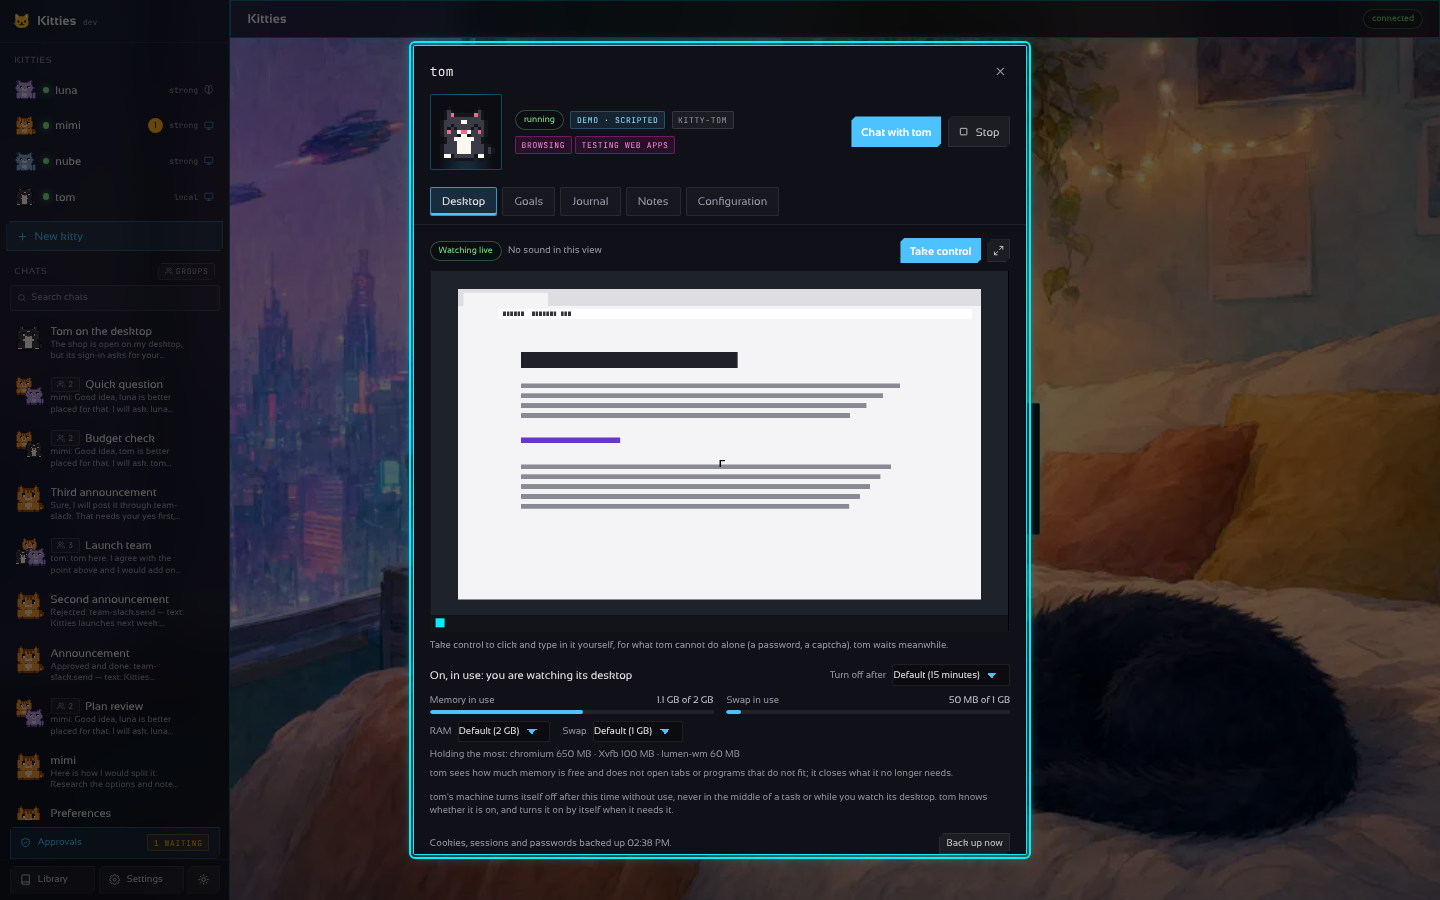
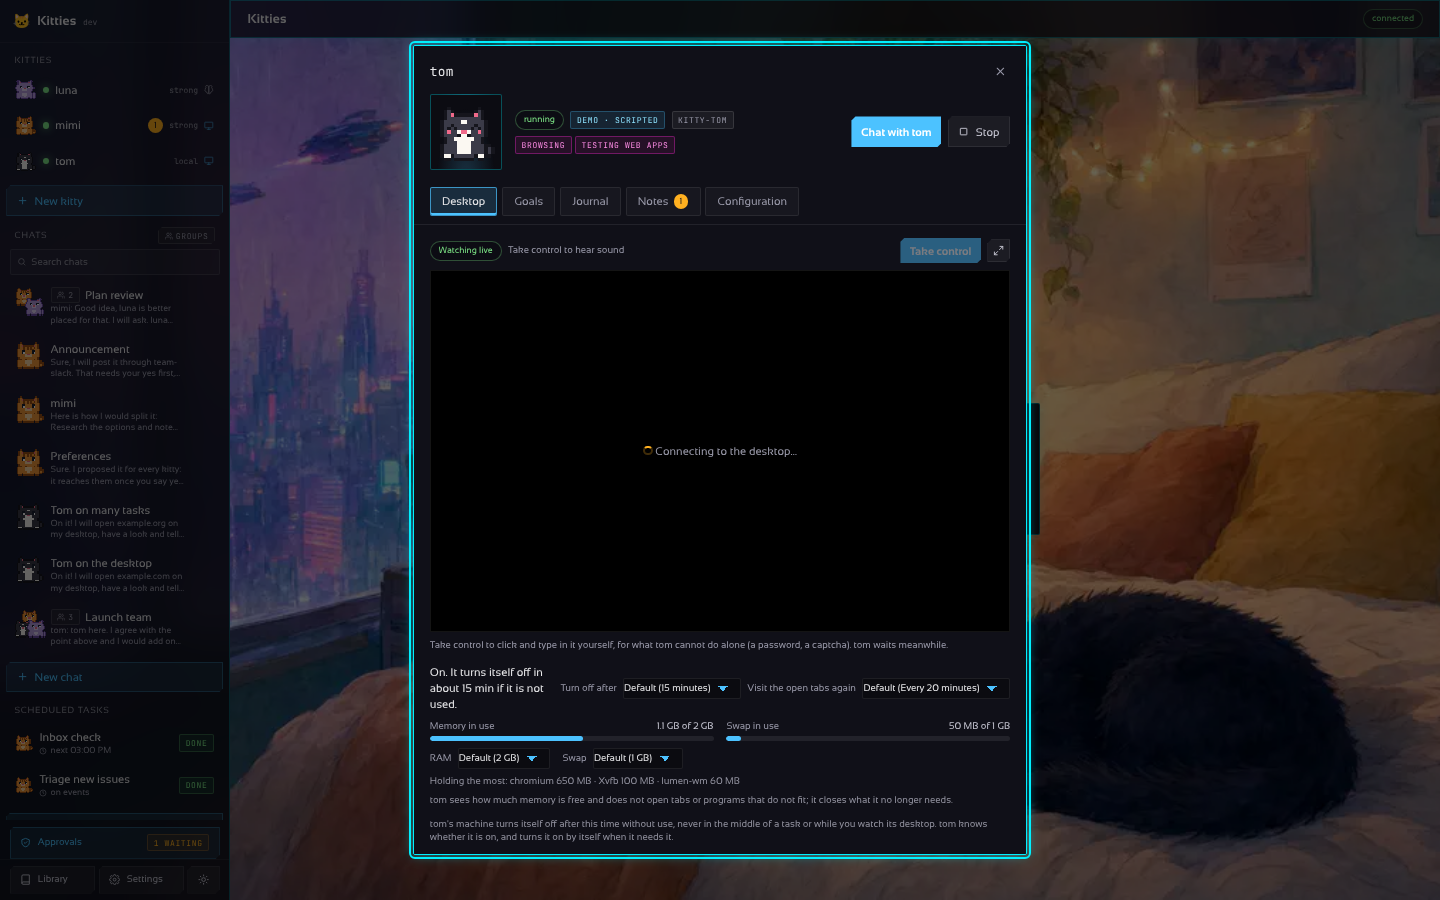
feat(machines): intervalo de refresco del navegador por kitty
- kitty.browser_refresh_minutes y PATCH /v1/kitties/{ref}
  {browser_refresh_minutes | browser_refresh_default}; power muestra
  browser_refresh_minutes/custom.
- El cambio llega al instante a su escritorio; el default de Ajustes ›
  Máquinas ya no pisa a los kitties con valor propio.
- Selector en la ventana del kitty (Escritorio), e2e, tests Go, capturas
  (docs y landing) y docs.

Claude-Session: https://claude.ai/code/session_017Z7sUbKAKG6YcFUj1UzYkm

diff --git a/desktop/frontend/src/MachinePower.tsx b/desktop/frontend/src/MachinePower.tsx
@@ -2,7 +2,7 @@ import { useEffect, useState } from "preact/hooks";
 import type { Kitty, Memory, Power } from "./api";
 import { api, errText } from "./api";
 import { t } from "./i18n";
-import MachineMemory from "./MachineMemory";
+import MachineMemory, { REFRESH_CHOICES, withValue } from "./MachineMemory";
 
 // THE KITTY'S MACHINE.
 //
@@ -96,19 +96,26 @@ export default function MachinePower({
   if (!power) {
     return null;
   }
-  const choose = async (value: string) => {
+  const patch = async (u: Parameters<typeof api.editKitty>[1]) => {
     setErr("");
     try {
-      await api.editKitty(
-        kitty.id,
-        value === "default" ? { auto_off_default: true } : { auto_off_minutes: Number(value) },
-      );
+      await api.editKitty(kitty.id, u);
       await load();
       onChanged();
     } catch (e) {
       setErr(errText(e));
     }
   };
+  const choose = (value: string) =>
+    patch(value === "default" ? { auto_off_default: true } : { auto_off_minutes: Number(value) });
+  const chooseRefresh = (value: string) =>
+    patch(
+      value === "default"
+        ? { browser_refresh_default: true }
+        : { browser_refresh_minutes: Number(value) },
+    );
+  const refresh = power.browser_refresh_minutes;
+  const refreshText = (n: number) => (n === 0 ? t("Never") : t("Every {n} minutes", { n }));
   const choices = IDLE_CHOICES.includes(power.auto_off_minutes)
     ? IDLE_CHOICES
     : [...IDLE_CHOICES, power.auto_off_minutes].sort((a, b) => (a || 1e9) - (b || 1e9));
@@ -138,6 +145,28 @@ export default function MachinePower({
             ))}
           </select>
         </label>
+        {refresh !== undefined && (
+          <label class="flex items-center gap-2 text-xs text-[var(--t3)]">
+            {t("Visit the open tabs again")}
+            <select
+              class="field !py-1 !text-xs"
+              value={power.browser_refresh_custom ? String(refresh) : "default"}
+              onChange={(e) => void chooseRefresh((e.target as HTMLSelectElement).value)}
+              data-testid="browser-refresh"
+            >
+              <option value="default">
+                {power.browser_refresh_custom
+                  ? t("Default")
+                  : t("Default ({time})", { time: refreshText(refresh) })}
+              </option>
+              {withValue(REFRESH_CHOICES, refresh).map((n) => (
+                <option key={n} value={String(n)}>
+                  {refreshText(n)}
+                </option>
+              ))}
+            </select>
+          </label>
+        )}
       </div>
       <MachineMemory
         kitty={kitty}

diff --git a/desktop/frontend/e2e/screens.spec.ts b/desktop/frontend/e2e/screens.spec.ts
@@ -4111,6 +4111,18 @@ test("a kitty's machine is turned on and off and has its own idle time", async (
   await expect.poll(async () => (await idle()).auto_off_minutes).toBe(30);
   await power.getByTestId("auto-off").selectOption("default");
   await expect.poll(async () => (await idle()).auto_off_custom).toBe(false);
+  // How often its browser visits its tabs again: the default for every kitty, or its own.
+  const refresh = power.getByTestId("browser-refresh");
+  await expect(refresh).toHaveValue("default");
+  expect(await idle()).toMatchObject({
+    browser_refresh_minutes: 20,
+    browser_refresh_custom: false,
+  });
+  await refresh.selectOption("60");
+  await expect.poll(async () => (await idle()).browser_refresh_minutes).toBe(60);
+  expect(await idle()).toMatchObject({ browser_refresh_custom: true });
+  await refresh.selectOption("default");
+  await expect.poll(async () => (await idle()).browser_refresh_custom).toBe(false);
   // Off (forced: the drawer may be showing its desktop live, which counts as use).
   const off = await page.request.post(`${GATEWAY}/v1/kitties/tom/power`, {
     headers,

diff --git a/desktop/frontend/src/api.ts b/desktop/frontend/src/api.ts
@@ -57,6 +57,10 @@ export interface Power {
   off_reason?: "idle" | "manual" | "kitty" | "";
   auto_off_minutes: number;
   auto_off_custom: boolean;
+  // browser_refresh_minutes is how often its browser visits its open tabs again (0 is never);
+  // browser_refresh_custom whether that is its own and not the default for every kitty.
+  browser_refresh_minutes?: number;
+  browser_refresh_custom?: boolean;
   // memory_mb and swap_mb are the RAM and swap the machine is given (0 RAM: the engine's own);
   // memory_custom is whether they are the kitty's own, memory_pending whether they wait for the
   // next start; memory_local is false in the cloud, where the machine's size is the provider's.
@@ -937,6 +941,8 @@ export const api = {
       memory_mb?: number;
       swap_mb?: number;
       memory_default?: boolean;
+      browser_refresh_minutes?: number;
+      browser_refresh_default?: boolean;
     },
   ) => request<{ kitty: Kitty }>("PATCH", `/v1/kitties/${ref}`, u).then((r) => r.kitty),
   // lead is the fleet's lead kitty and its Reports thread; setLead makes another the lead

diff --git a/desktop/frontend/src/MachinesSettings.tsx b/desktop/frontend/src/MachinesSettings.tsx
@@ -2,7 +2,7 @@ import { useEffect, useState } from "preact/hooks";
 import type { Kitty, Machines, Memory, Power } from "./api";
 import { api, errText } from "./api";
 import { t } from "./i18n";
-import MachineMemory, { MemorySelects, mbText, withValue } from "./MachineMemory";
+import MachineMemory, { MemorySelects, REFRESH_CHOICES, mbText, withValue } from "./MachineMemory";
 
 // SETTINGS › MACHINES.
 //
@@ -41,10 +41,6 @@ function KittyMachine({ kitty }: { kitty: Kitty }) {
     </div>
   );
 }
-
-// How often the browser visits its open tabs again, so sites that end idle sessions keep the
-// kitty logged in; tabs someone is using are only visited quietly, never reloaded.
-const REFRESH_CHOICES = [0, 10, 20, 30, 60, 120];
 
 export default function MachinesSettings({ kitties }: { kitties: Kitty[] }) {
   const [view, setView] = useState<Machines | null>(null);

diff --git a/desktop/frontend/src/MachineMemory.tsx b/desktop/frontend/src/MachineMemory.tsx
@@ -23,6 +23,10 @@ export function mbText(n: number): string {
   return t("{n} GB", { n: Number.isInteger(gb) ? String(gb) : gb.toFixed(1) });
 }
 
+// How often the browser visits its open tabs again, in minutes, so sites that end idle sessions
+// keep the kitty logged in; tabs someone is using are only visited quietly, never reloaded.
+export const REFRESH_CHOICES = [0, 10, 20, 30, 60, 120];
+
 // withValue keeps a value that is not among the choices (set in the file, or by the API).
 export function withValue(choices: number[], v: number): number[] {
   return choices.includes(v) ? choices : [...choices, v].sort((a, b) => a - b);

diff --git a/internal/kitty/power.go b/internal/kitty/power.go
@@ -41,6 +41,21 @@ const DefaultAutoOffMinutes = 15
 // MaxAutoOffMinutes is the longest idle time that can be set (a week); more is "never" (0).
 const MaxAutoOffMinutes = 7 * 24 * 60
 
+// DefaultBrowserRefreshMinutes is how often the browser visits its tabs again when nothing says
+// otherwise, and MaxBrowserRefreshMinutes the longest (a day); 0 is never.
+const (
+	DefaultBrowserRefreshMinutes = 20
+	MaxBrowserRefreshMinutes     = 24 * 60
+)
+
+// ValidBrowserRefresh checks how often the browser visits its tabs again: 0 is never.
+func ValidBrowserRefresh(minutes int) error {
+	if minutes < 0 || minutes > MaxBrowserRefreshMinutes {
+		return fmt.Errorf("browser_refresh_minutes is between 0 (never) and %d", MaxBrowserRefreshMinutes)
+	}
+	return nil
+}
+
 // ValidAutoOff checks an idle time: 0 is never, up to a week otherwise.
 func ValidAutoOff(minutes int) error {
 	if minutes < 0 || minutes > MaxAutoOffMinutes {
@@ -65,6 +80,10 @@ type Power struct {
 	// whether the kitty has a value of its own (otherwise it is the gateway's default).
 	AutoOffMinutes int  `json:"auto_off_minutes"`
 	AutoOffCustom  bool `json:"auto_off_custom"`
+	// BrowserRefreshMinutes is how often its browser visits its open tabs again (0 is never);
+	// BrowserRefreshCustom is whether that is its own and not the default for every kitty.
+	BrowserRefreshMinutes int  `json:"browser_refresh_minutes"`
+	BrowserRefreshCustom  bool `json:"browser_refresh_custom"`
 	// MemoryMB and SwapMB are the RAM and swap the machine is given (0 RAM is no limit: the
 	// engine's own); MemoryCustom is whether the kitty has values of its own, MemoryPending
 	// whether they wait for the machine to be turned on again. MemoryLocal is false for a

diff --git a/internal/orchestrator/orchestrator.go b/internal/orchestrator/orchestrator.go
@@ -1077,6 +1077,15 @@ type Update struct {
 	MemoryMB      *int  `json:"memory_mb,omitempty"`
 	SwapMB        *int  `json:"swap_mb,omitempty"`
 	MemoryDefault *bool `json:"memory_default,omitempty"`
+	// BrowserRefresh is how often its browser visits its tabs again, in minutes (0 is never);
+	// BrowserRefreshDefault, when true, goes back to the default for every kitty.
+	BrowserRefresh        *int  `json:"browser_refresh_minutes,omitempty"`
+	BrowserRefreshDefault *bool `json:"browser_refresh_default,omitempty"`
+}
+
+// refreshChange reports whether the update touches how often the browser visits its tabs again.
+func (u Update) refreshChange() bool {
+	return u.BrowserRefresh != nil || (u.BrowserRefreshDefault != nil && *u.BrowserRefreshDefault)
 }
 
 // memoryChange reports whether the update touches the machine's RAM or swap.
@@ -1095,6 +1104,9 @@ func (m *Manager) Edit(ref string, u Update) (*kitty.Kitty, error) {
 	defer cancel()
 	if u.Theme != nil {
 		m.applyTheme(ctx, k, true)
+	}
+	if u.refreshChange() {
+		m.applyBrowserRefresh(ctx, k)
 	}
 	if u.memoryChange() {
 		m.applyLimits(ctx, k)
@@ -1187,6 +1199,16 @@ func (m *Manager) edit(ref string, u Update) (*kitty.Kitty, error) {
 	}
 	if u.MemoryDefault != nil && *u.MemoryDefault {
 		k.MemoryMB, k.SwapMB = nil, nil
+	}
+	if u.BrowserRefresh != nil {
+		if err := kitty.ValidBrowserRefresh(*u.BrowserRefresh); err != nil {
+			return nil, err
+		}
+		minutes := *u.BrowserRefresh
+		k.BrowserRefresh = &minutes
+	}
+	if u.BrowserRefreshDefault != nil && *u.BrowserRefreshDefault {
+		k.BrowserRefresh = nil
 	}
 	if u.Backup != nil {
 		backup := strings.TrimSpace(*u.Backup)

diff --git a/internal/orchestrator/memory_test.go b/internal/orchestrator/memory_test.go
@@ -192,6 +192,41 @@ func TestBrowserRefreshDefault(t *testing.T) {
 			t.Errorf("%d accepted", bad)
 		}
 	}
+	// A kitty of its own keeps it when the default moves, and is told at once.
+	own := 90
+	f.execs = nil
+	if _, err := m.Edit(solo.ID, Update{BrowserRefresh: &own}); err != nil {
+		t.Fatal(err)
+	}
+	if p, _ := m.Power(solo.ID); p.BrowserRefreshMinutes != 90 || !p.BrowserRefreshCustom {
+		t.Errorf("own = %+v", p)
+	}
+	if got := strings.Join(f.execs, "\n"); !strings.Contains(got, "90") {
+		t.Errorf("told at once: %q", got)
+	}
+	f.execs = nil
+	ten := 10
+	if err := m.SetMachineDefaults(ctx, MachineDefaults{MemoryMB: 3072, SwapMB: 1024, BrowserRefreshMinutes: &ten}); err != nil {
+		t.Fatal(err)
+	}
+	if p, _ := m.Power(solo.ID); p.BrowserRefreshMinutes != 90 || strings.Contains(strings.Join(f.execs, "\n"), BrowserRefreshFile) {
+		t.Errorf("the default moved a kitty with its own: %+v %v", p, f.execs)
+	}
+	bad := -5
+	if _, err := m.Edit(solo.ID, Update{BrowserRefresh: &bad}); err == nil {
+		t.Error("-5 accepted")
+	}
+	yes := true
+	if _, err := m.Edit(solo.ID, Update{BrowserRefreshDefault: &yes}); err != nil {
+		t.Fatal(err)
+	}
+	if p, _ := m.Power(solo.ID); p.BrowserRefreshMinutes != 10 || p.BrowserRefreshCustom {
+		t.Errorf("back to the default = %+v", p)
+	}
+	back := 45
+	if err := m.SetMachineDefaults(ctx, MachineDefaults{MemoryMB: 3072, SwapMB: 1024, BrowserRefreshMinutes: &back}); err != nil {
+		t.Fatal(err)
+	}
 	again, err := New(m.cfg, WithContainers(newFake(), nil))
 	if err != nil {
 		t.Fatal(err)

diff --git a/internal/config/config.go b/internal/config/config.go
@@ -273,16 +273,8 @@ type Containers struct {
 	BrowserRefreshMinutes int `yaml:"browser_refresh_minutes"`
 }
 
-// MaxBrowserRefreshMinutes is the longest browser_refresh_minutes: a day.
-const MaxBrowserRefreshMinutes = 24 * 60
-
-// ValidBrowserRefresh checks a browser_refresh_minutes.
-func ValidBrowserRefresh(n int) error {
-	if n < 0 || n > MaxBrowserRefreshMinutes {
-		return fmt.Errorf("browser_refresh_minutes is between 0 (never) and %d", MaxBrowserRefreshMinutes)
-	}
-	return nil
-}
+// ValidBrowserRefresh checks a browser_refresh_minutes (kitty.ValidBrowserRefresh).
+func ValidBrowserRefresh(n int) error { return kitty.ValidBrowserRefresh(n) }
 
 // Gateway is the HTTP API block. On a server it is also the web interface: the same address
 // serves the page and the API.
@@ -505,7 +497,7 @@ func Defaults() Config {
 		Containers: Containers{
 			Runtime: "auto", Image: "ghcr.io/madkoding/kitty-desktop:latest",
 			MemoryMB: 2048, SwapMB: kitty.DefaultSwapMB, CPUs: 2, AutoUpdate: true, UpdateCheckHours: 6, AutoOffMinutes: kitty.DefaultAutoOffMinutes,
-			BrowserRefreshMinutes: 20,
+			BrowserRefreshMinutes: kitty.DefaultBrowserRefreshMinutes,
 		},
 		Cloud:      Cloud{MaxRunning: 5, IdleMinutes: 15, Size: "small", APIKeyEnv: "BOAT_API_KEY"},
 		Gateway:    Gateway{Listen: DefaultListen, MCP: MCP{Enabled: true}},

diff --git a/internal/orchestrator/memory.go b/internal/orchestrator/memory.go
@@ -151,7 +151,7 @@ func (m *Manager) SetMachineDefaults(ctx context.Context, d MachineDefaults) err
 		if (memoryMoved || !refreshMoved) && k.Desktop && k.MemoryMB == nil && k.SwapMB == nil {
 			m.applyLimits(ctx, k)
 		}
-		if refreshMoved {
+		if refreshMoved && k.BrowserRefresh == nil {
 			m.applyBrowserRefresh(ctx, k)
 		}
 	}
@@ -165,8 +165,17 @@ func (m *Manager) applyBrowserRefresh(ctx context.Context, k *kitty.Kitty) {
 	if !k.Desktop || k.Container == "" || k.Status != kitty.StatusRunning {
 		return
 	}
-	n := strconv.Itoa(*m.MachineDefaults().BrowserRefreshMinutes)
+	n := strconv.Itoa(m.BrowserRefreshMinutes(k))
 	_, _ = m.ctr().Exec(ctx, k.Container, "sh", "-c", "printf '%s\\n' \"$1\" > "+BrowserRefreshFile, "sh", n)
+}
+
+// BrowserRefreshMinutes is how often a kitty's browser visits its tabs again: its own, or the
+// default for every kitty. 0 is never.
+func (m *Manager) BrowserRefreshMinutes(k *kitty.Kitty) int {
+	if k.BrowserRefresh != nil {
+		return *k.BrowserRefresh
+	}
+	return *m.MachineDefaults().BrowserRefreshMinutes
 }
 
 // BrowserRefreshFile is where a desktop that is on learns a new interval (kitty-refresh).

diff --git a/internal/orchestrator/home.go b/internal/orchestrator/home.go
@@ -111,9 +111,8 @@ func (m *Manager) desktopSpec(ctx context.Context, k *kitty.Kitty) (container.Sp
 		env[key] = v
 	}
 	env["KITTY_SHARED_QUOTA_MB"] = strconv.Itoa(m.SharedQuotaMB())
-	// How often the browser visits its tabs again (Settings › Machines), and in which language it
-	// asks for pages: the host's, like its clock.
-	env["KITTY_BROWSER_REFRESH"] = strconv.Itoa(*m.MachineDefaults().BrowserRefreshMinutes)
+	// How often the browser visits its tabs again: the kitty's own, or Settings › Machines.
+	env["KITTY_BROWSER_REFRESH"] = strconv.Itoa(m.BrowserRefreshMinutes(k))
 	memoryMB, swapMB, _ := m.MemoryLimits(k)
 	spec := container.Spec{
 		Name: k.Container, KittyName: k.Name, Image: c.Image, MemoryMB: memoryMB, SwapMB: swapMB, CPUs: c.CPUs,

diff --git a/internal/kitty/kitty.go b/internal/kitty/kitty.go
@@ -45,6 +45,9 @@ type Kitty struct {
 	// AutoOff is the minutes its machine may stay on without use before it turns itself off: nil
 	// takes the gateway's default (containers.auto_off_minutes, 15), 0 is never.
 	AutoOff *int `json:"auto_off_minutes,omitempty"`
+	// BrowserRefresh is how often its browser visits its open tabs again, in minutes: nil takes
+	// the default for every kitty (Settings › Machines), 0 is never.
+	BrowserRefresh *int `json:"browser_refresh_minutes,omitempty"`
 	// MemoryMB and SwapMB are the RAM and swap of its machine, in MB: nil takes the gateway's
 	// defaults (containers.memory_mb and swap_mb, or what the settings chose for every kitty).
 	MemoryMB *int `json:"memory_mb,omitempty"`
